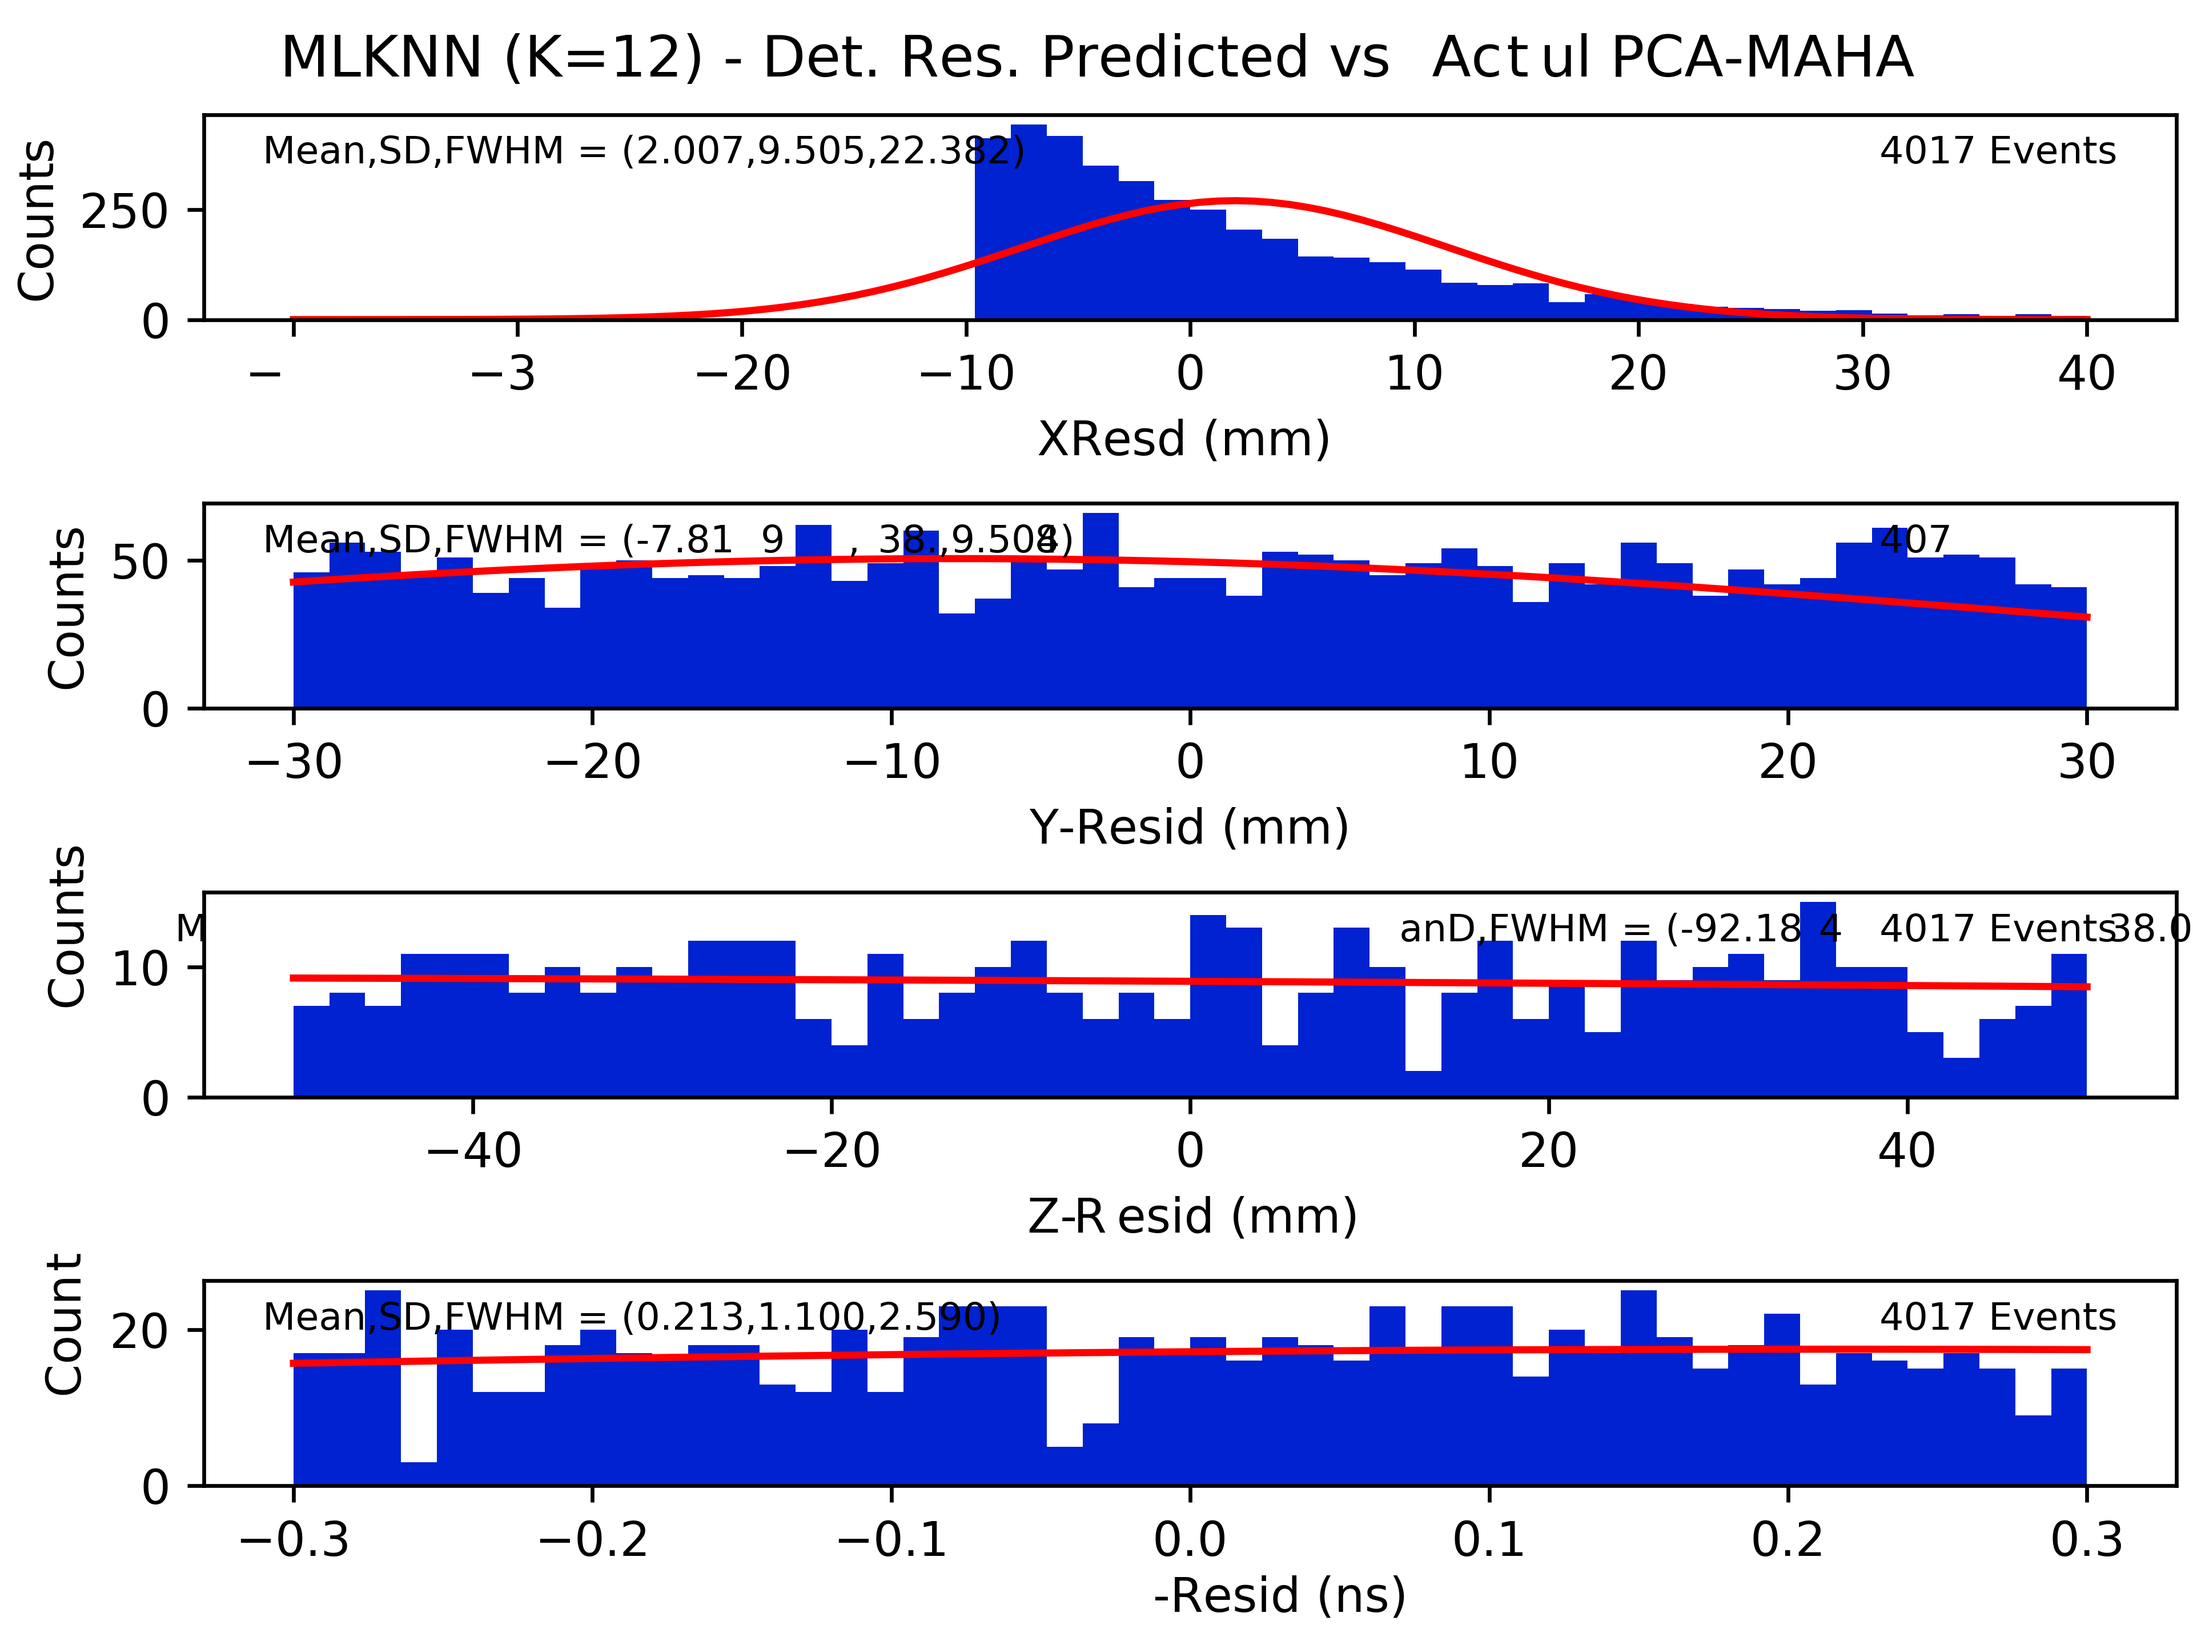
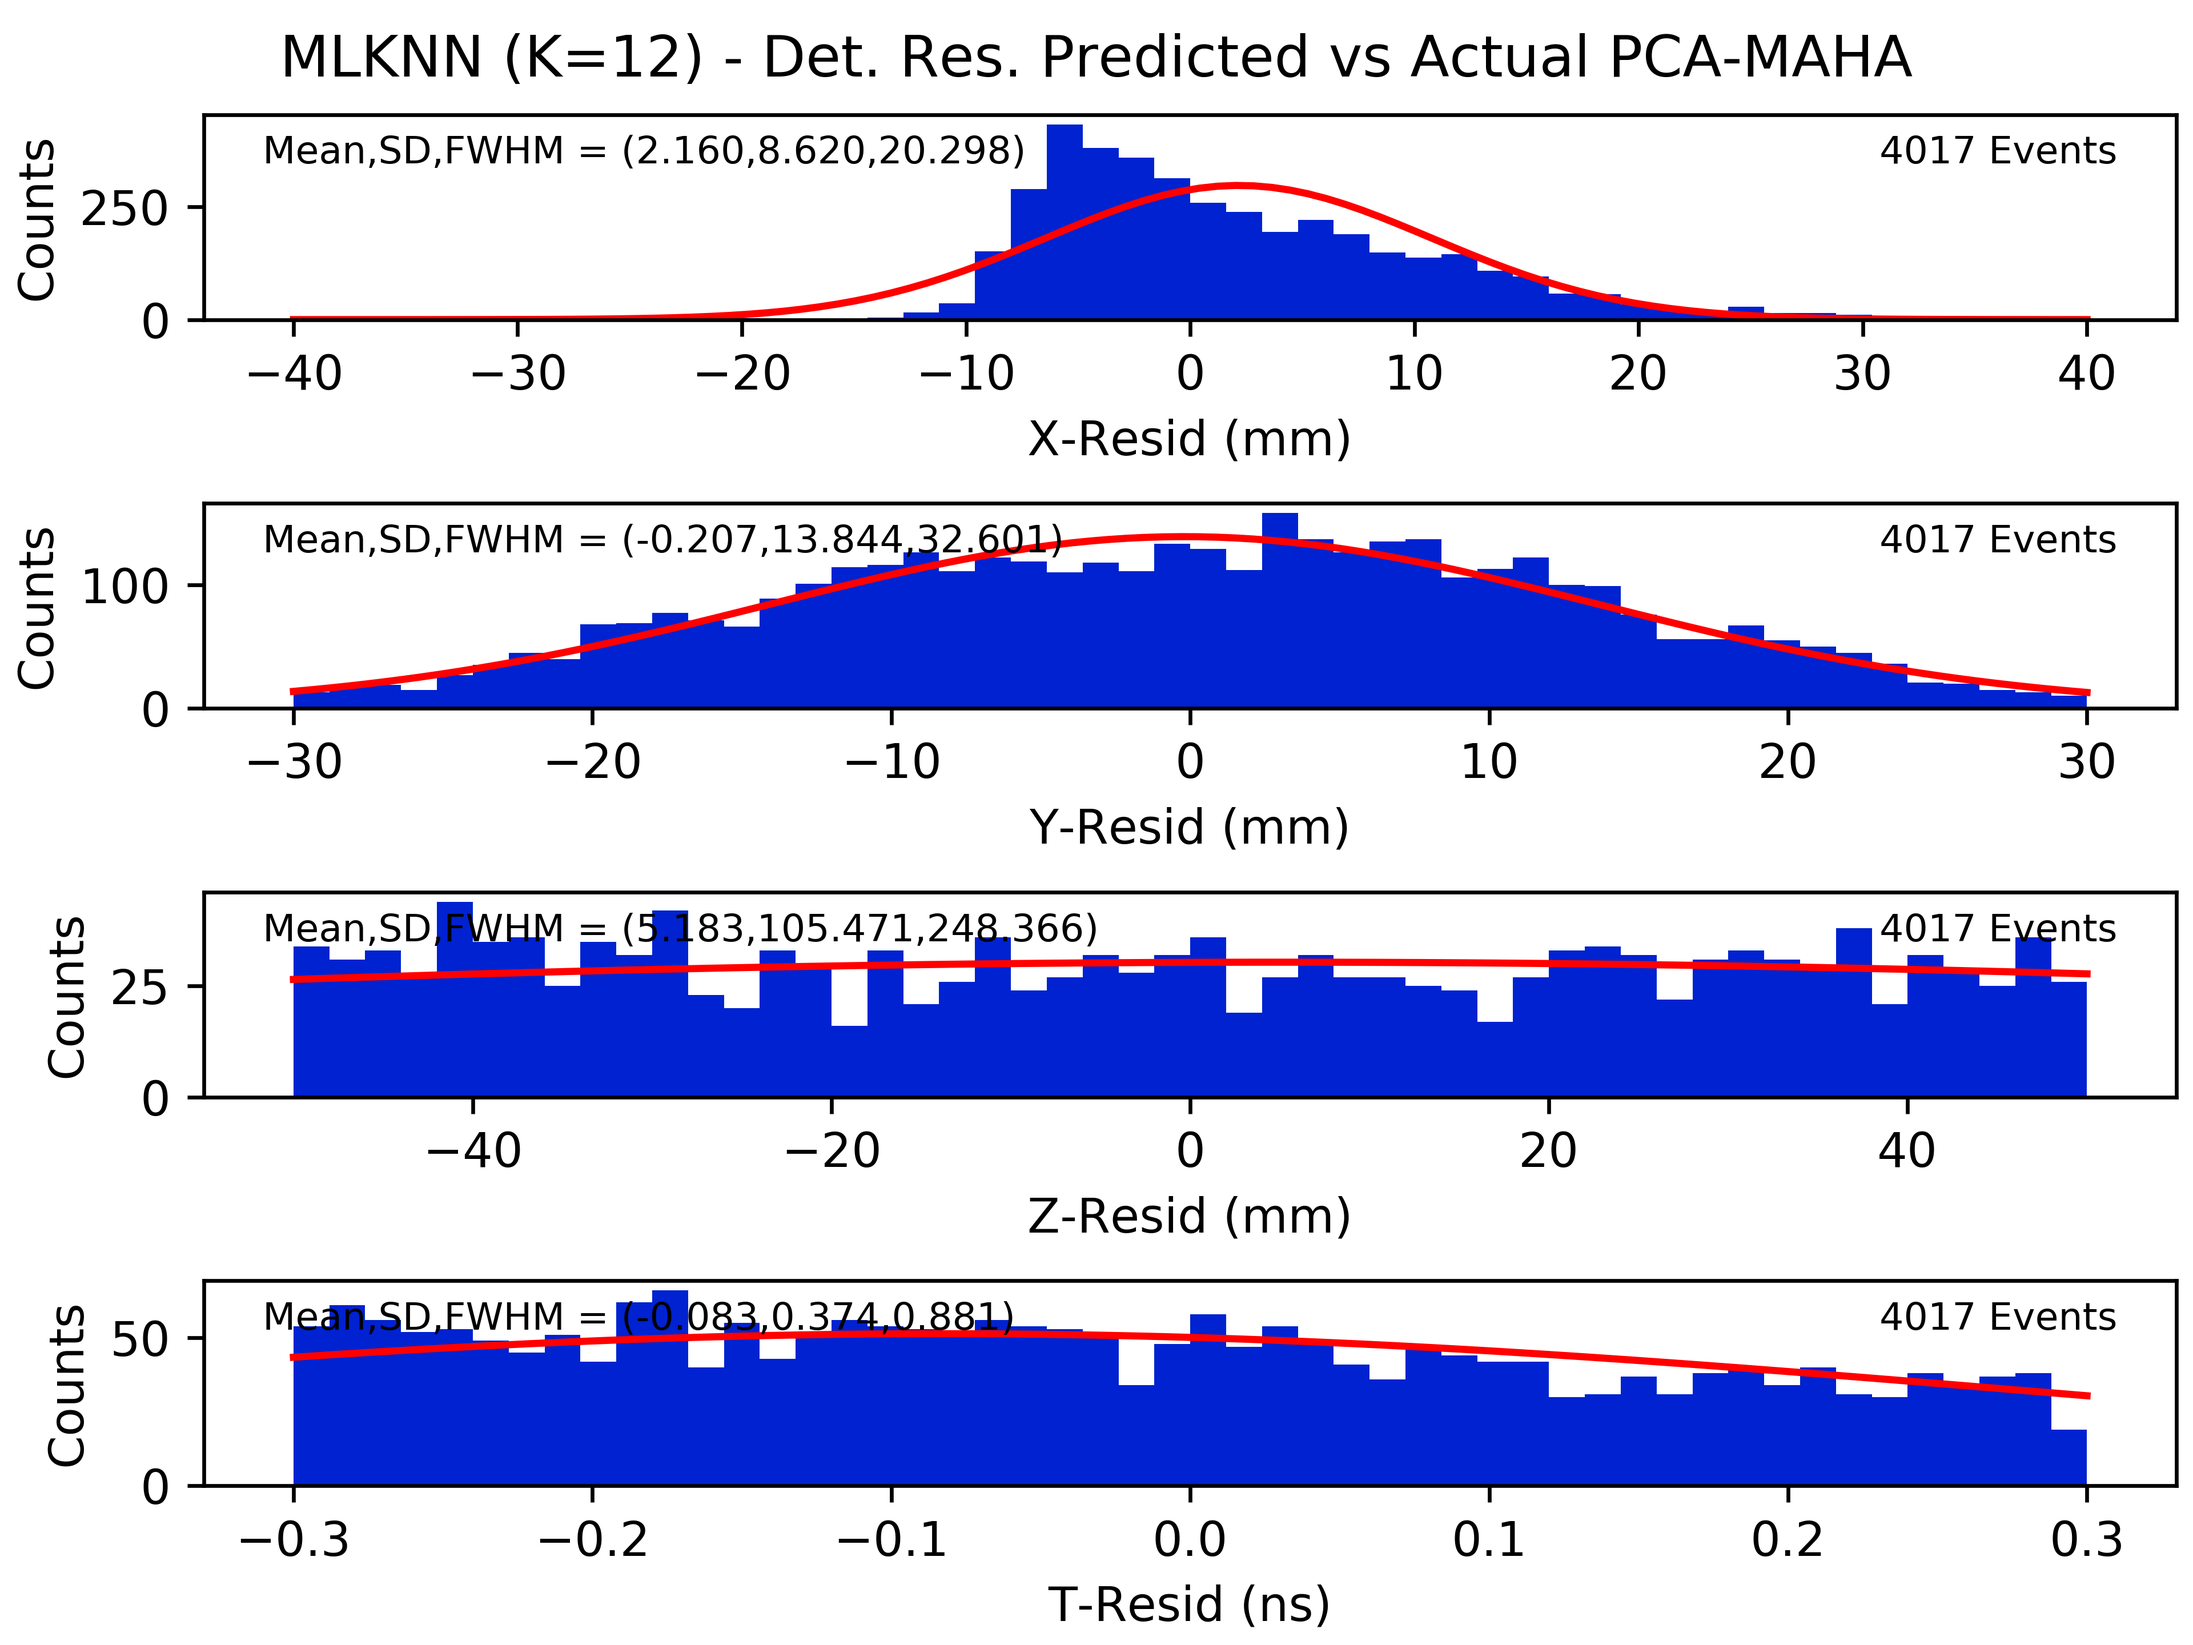
TACC disableZT

diff --git a/analyze.py b/analyze.py
@@ -61,9 +61,9 @@ DRES_Train = True #Train or Test/VIS?
 warmstart=True # warmstart the CNN
 #---KNN
 KNN = True #using KNN OR CNN ? 
-MLOPT = ["DISABLE-ZT"] #options "PCA" "STD" "MAHA" (note MAHA,STD requires PCA)
-KVIS = "RUNONE" #options "RUNONE" "RUN" "OPTNUM" "ERR" "VIS" "False" #nearest neighbor output visualization?
-knn_neighbors =  #set value
+MLOPT = ["DISABLE-ZT"] #options "PCA" "STD" "MAHA" "DISABLE-ZT" (note MAHA,STD requires PCA)
+KVIS = "RUN" #options "RUNONE" "RUN" "OPTNUM" "ERR" "VIS" "False" #nearest neighbor output visualization?
+knn_neighbors = 4 #set value
 #---------------
 POSRES = False
 RES_ADD = False #additional resolution plots

diff --git a/tools/ML/ML_PCA.py b/tools/ML/ML_PCA.py
@@ -8,13 +8,16 @@ targetshape=flatinput.shape
 #print(flatinput[0])
 #standardize -------------------------------------------------------
 #Workaround for Z-values:
-if(len(flatinput)==4*2*photoLen):
+#print(targetshape[1])
+if(targetshape[1]==4*2*photoLen):
+    #print("Z-workaround")
     d = int(2*photoLen)
-    flatinput[(2*d):(3*d)] = np.nan
+    flatinput[:,(2*d):(3*d)] = np.nan
 #Zero valuing
 # remove all nan/zero columns in Tensor
 flatinput = flatinput[:,torch.isfinite(flatinput[0])]
 flatlength = len(flatinput[0])
+#print(flatinput[0])
 #
 meaninput = torch.mean(flatinput,dim=0)
 #print(meaninput.shape)
